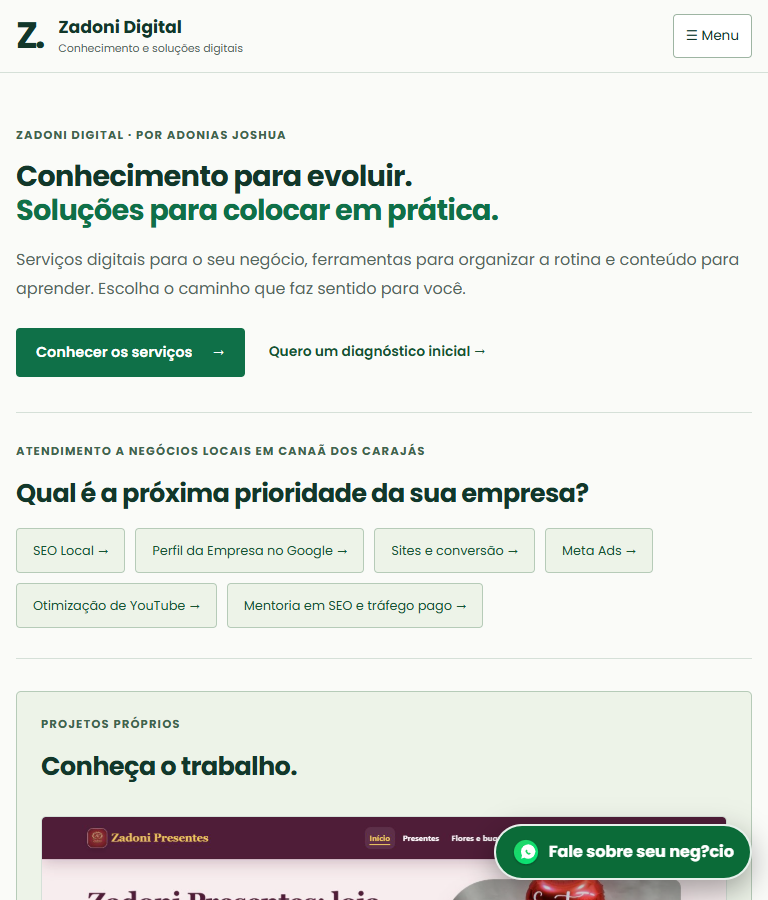
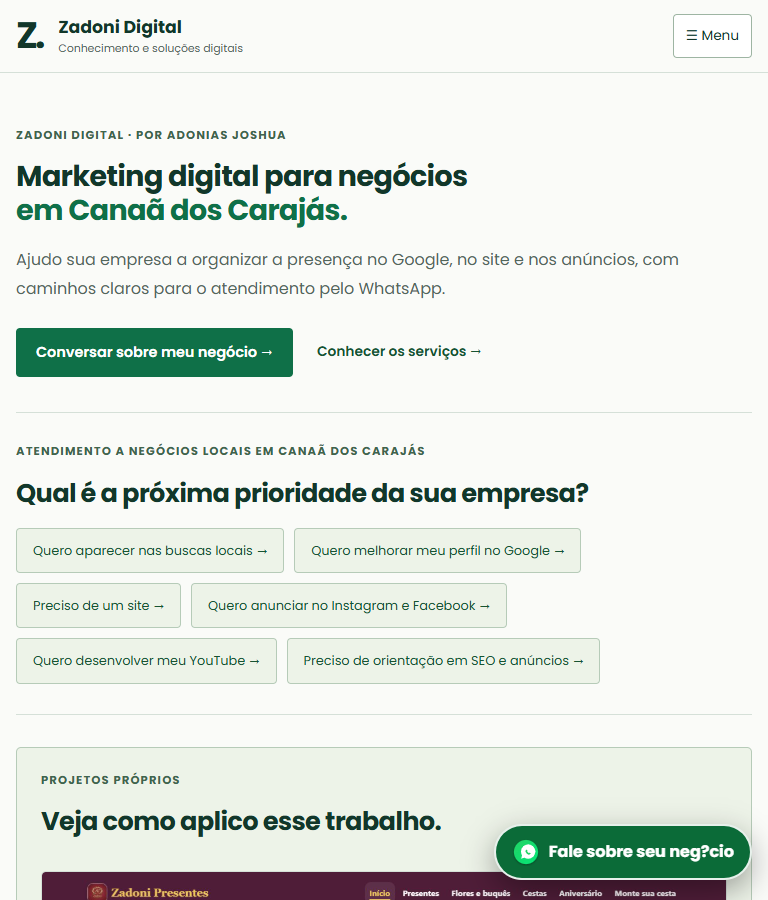
fix: apply local marketing copy and validate contact destination

diff --git a/index.html b/index.html
@@ -71,23 +71,23 @@
         <div class="container">
           <div class="home-intro">
             <p class="home-eyebrow">Zadoni Digital · Por Adonias Joshua</p>
-            <h2 id="home-discovery-title">Conhecimento para evoluir.<br><span>Soluções para colocar em prática.</span></h2>
-            <p class="home-lead">Serviços digitais para o seu negócio, ferramentas para organizar a rotina e conteúdo para aprender. Escolha o caminho que faz sentido para você.</p>
-            <div class="home-primary-actions"><a class="home-action" href="./servicos-digitais/">Conhecer os serviços <span aria-hidden="true">→</span></a><a class="home-text-link" href="./diagnostico-presenca-digital/">Quero um diagnóstico inicial →</a></div>
+            <h2 id="home-discovery-title">Marketing digital para negócios<br><span>em Canaã dos Carajás.</span></h2>
+            <p class="home-lead">Ajudo sua empresa a organizar a presença no Google, no site e nos anúncios, com caminhos claros para o atendimento pelo WhatsApp.</p>
+            <div class="home-primary-actions"><a class="home-action" href="https://wa.me/5594992993138?text=Ol%C3%A1%2C%20Adonias!%20Vim%20da%20Zadoni%20Digital%20e%20quero%20conversar%20sobre%20marketing%20para%20meu%20neg%C3%B3cio." target="_blank" rel="noopener noreferrer">Conversar sobre meu negócio →</a><a class="home-text-link" href="./servicos-digitais/">Conhecer os serviços →</a></div>
           </div>
-          <section class="home-service-access" aria-labelledby="home-services-title"><div><p class="home-eyebrow">Atendimento a negócios locais em Canaã dos Carajás</p><h2 id="home-services-title">Qual é a próxima prioridade da sua empresa?</h2></div><div class="home-service-links"><a href="./seo-local-canaa-dos-carajas/">SEO Local →</a><a href="./otimizacao-google-meu-negocio-canaa/">Perfil da Empresa no Google →</a><a href="./servicos-digitais/#sites">Sites e conversão →</a><a href="./meta-ads-negocios-locais-canaa/">Meta Ads →</a><a href="./otimizacao-canal-youtube/">Otimização de YouTube →</a><a href="./mentoria-seo-trafego-pago/">Mentoria em SEO e tráfego pago →</a></div></section>
-            <section class="home-feature" id="home-cases" aria-labelledby="home-cases-title"><p class="home-eyebrow">Projetos próprios</p><h2 id="home-cases-title">Conheça o trabalho.</h2><a class="home-case-link" href="./cases/zadoni-presentes/"><img src="./assets/images/zadoni-presentes-site.jpg" width="1360" height="840" loading="lazy" decoding="async" alt="Site da Zadoni Presentes: loja, produtos e categorias"><span><strong>Zadoni Presentes</strong><small>Site e presença digital de um negócio local.</small></span><span aria-hidden="true">→</span></a><a href="./cases/zadoni-digital/"><span><strong>Portal Zadoni Digital</strong><small>Conteúdo, ferramentas web e SEO.</small></span><span aria-hidden="true">→</span></a></section>
-          <p class="home-commercial-help">N?o sabe por onde come?ar? <a class="home-text-link" href="./diagnostico-presenca-digital/">Fa?a o diagn?stico inicial ?</a></p>
+          <section class="home-service-access" aria-labelledby="home-services-title"><div><p class="home-eyebrow">Atendimento a negócios locais em Canaã dos Carajás</p><h2 id="home-services-title">Qual é a próxima prioridade da sua empresa?</h2></div><div class="home-service-links"><a href="./seo-local-canaa-dos-carajas/">Quero aparecer nas buscas locais →</a><a href="./otimizacao-google-meu-negocio-canaa/">Quero melhorar meu perfil no Google →</a><a href="./servicos-digitais/#sites">Preciso de um site →</a><a href="./meta-ads-negocios-locais-canaa/">Quero anunciar no Instagram e Facebook →</a><a href="./otimizacao-canal-youtube/">Quero desenvolver meu YouTube →</a><a href="./mentoria-seo-trafego-pago/">Preciso de orientação em SEO e anúncios →</a></div></section>
+            <section class="home-feature" id="home-cases" aria-labelledby="home-cases-title"><p class="home-eyebrow">Projetos próprios</p><h2 id="home-cases-title">Veja como aplico esse trabalho.</h2><a class="home-case-link" href="./cases/zadoni-presentes/"><img src="./assets/images/zadoni-presentes-site.jpg" width="1360" height="840" loading="lazy" decoding="async" alt="Site da Zadoni Presentes: loja, produtos e categorias"><span><strong>Zadoni Presentes</strong><small>Negócio próprio: site, produtos e presença digital local.</small></span><span aria-hidden="true">→</span></a><a href="./cases/zadoni-digital/"><span><strong>Portal Zadoni Digital</strong><small>Conteúdo, ferramentas web e SEO.</small></span><span aria-hidden="true">→</span></a></section>
+          <p class="home-commercial-help">Não sabe por onde começar? <a class="home-text-link" href="./diagnostico-presenca-digital/">Faça o diagnóstico inicial →</a></p>
           <section class="home-author" aria-labelledby="home-author-title">
             <img src="./assets/images/adonias-joshua-apresentacao.jpeg" width="1086" height="1448" loading="lazy" decoding="async" alt="Adonias Joshua em ambiente de trabalho, usando colete de segurança" />
             <div><p class="home-eyebrow">Quem está por trás dos projetos</p><h2 id="home-author-title">Adonias Joshua</h2><p>Experiência de campo e desenvolvimento digital conectados em projetos próprios, ferramentas e conteúdo. Sou o criador da Zadoni Digital e responsável pelos trabalhos apresentados neste portal.</p><p>Minha trajetória em mineração, construção e meio ambiente faz parte da base dos conteúdos de produtividade, 5S e gestão ambiental.</p><div class="home-primary-actions"><a class="home-text-link" href="./sobre/">Conheça minha trajetória →</a><a class="home-text-link" href="./servicos-digitais/#contato">Conversar sobre seu projeto →</a></div></div>
           </section>
-          <section class="home-knowledge" aria-labelledby="home-knowledge-title"><p class="home-eyebrow">Conhecimento para aplicar</p><h2 id="home-knowledge-title">Aprenda, organize sua rotina e desenvolva suas habilidades.</h2><p>Explore os guias de produtividade, 5S, minera??o e meio ambiente, use as ferramentas e conhe?a a Trilha 10X.</p>          <nav class="home-paths" aria-label="Escolha o que procura">
+          <section class="home-knowledge" aria-labelledby="home-knowledge-title"><p class="home-eyebrow">Conhecimento para aplicar</p><h2 id="home-knowledge-title">Aprenda, organize sua rotina e desenvolva suas habilidades.</h2><p>Explore os guias de produtividade, 5S, mineração e meio ambiente, use as ferramentas e conheça a Trilha 10X.</p>          <nav class="home-paths" aria-label="Escolha o que procura">
             <a class="home-path" href="./servicos-digitais/"><span class="home-path-label">Para o seu negócio</span><h3>Serviços digitais</h3><p>SEO Local, Google, sites, anúncios, YouTube e mentoria.</p><span class="home-path-link">Encontrar o serviço certo →</span></a>
             <a class="home-path" href="./ferramentas/"><span class="home-path-label">Para a sua rotina</span><h3>Ferramentas gratuitas</h3><p>Tempo 10X e Matriz de Eisenhower para organizar atividades.</p><span class="home-path-link">Explorar as ferramentas →</span></a>
             <a class="home-path" href="./portal/"><span class="home-path-label">Para aprender</span><h3>Portal de conteúdos</h3><p>Produtividade, mineração, 5S e gestão ambiental.</p><span class="home-path-link">Escolher um tema →</span></a>
             <a class="home-path" href="#hero"><span class="home-path-label">Para se desenvolver</span><h3>Trilha Produtividade 10X</h3><p>Conheça o curso, as aulas e a proposta de formação.</p><span class="home-path-link">Conhecer a Trilha 10X ↓</span></a>
-          </nav><div class="home-service-links"><a href="./produtividade/">Produtividade</a><a href="./5s/">5S</a><a href="./mineracao/">Minera??o</a><a href="./gestao-ambiental/">Meio ambiente</a><a href="./marketing-local/melhorar-presenca-google-maps/">Marketing local</a></div></section>
+          </nav><div class="home-service-links"><a href="./produtividade/">Produtividade</a><a href="./5s/">5S</a><a href="./mineracao/">Mineração</a><a href="./gestao-ambiental/">Meio ambiente</a><a href="./marketing-local/melhorar-presenca-google-maps/">Marketing local</a></div></section>
           <div class="home-explore-grid">
             <section class="home-feature" aria-labelledby="home-tools-title"><p class="home-eyebrow">Da leitura à prática</p><h2 id="home-tools-title">Abra uma ferramenta.</h2><a class="home-case-link" href="./ferramentas/gestao-do-tempo/"><img src="./assets/images/tempo10x-interface.jpg" width="1360" height="840" loading="lazy" decoding="async" alt="Tempo 10X: formulario de nova atividade vazio"><span><strong>Tempo 10X</strong><small>Acompanhe tempo e atividades.</small></span><span aria-hidden="true">→</span></a><a class="home-case-link" href="./ferramentas/matriz-eisenhower/"><img src="./assets/images/matriz-eisenhower-interface.jpg" width="1360" height="840" loading="lazy" decoding="async" alt="Matriz de Eisenhower com quatro quadrantes e nenhuma tarefa cadastrada"><span><strong>Matriz de Eisenhower</strong><small>Organize tarefas por prioridade.</small></span><span aria-hidden="true">→</span></a></section>
           </div>
@@ -468,7 +468,7 @@
           <div class="footer-col">
             <h4 class="footer-title">Entre em Contato</h4>
             <p class="footer-contact">✉ <a href="mailto:adonias.joshua@gmail.com" class="footer-link">adonias.joshua@gmail.com</a></p>
-            <a class="footer-whats" href="https://wa.me/5594992993138?text=Ol%3F%2C%20Adonias!%20Vim%20da%20Zadoni%20Digital%20e%20quero%20conversar%20sobre%20marketing%20para%20meu%20neg%3Fcio." target="_blank" rel="noopener" aria-label="Falar no WhatsApp">Falar no WhatsApp</a>
+            <a class="footer-whats" href="https://wa.me/5594992993138?text=Ol%C3%A1%2C%20Adonias!%20Vim%20da%20Zadoni%20Digital%20e%20quero%20conversar%20sobre%20marketing%20para%20meu%20neg%C3%B3cio." target="_blank" rel="noopener" aria-label="Falar no WhatsApp">Falar no WhatsApp</a>
           </div>
 
           <!-- Coluna 4 - Redes Sociais -->
@@ -484,7 +484,7 @@
               <a class="social-icon instagram" href="https://www.instagram.com/zadoni_criacoes?igsh=MWlxeXd5ZWFvYmxvNg==" target="_blank" rel="noopener" aria-label="Instagram">
                 <img src="./assets/icons/instagram.svg" alt="Instagram" width="20" height="20" />
               </a>
-              <a class="social-icon whatsapp" href="https://wa.me/5594992993138?text=Ol%3F%2C%20Adonias!%20Vim%20da%20Zadoni%20Digital%20e%20quero%20conversar%20sobre%20marketing%20para%20meu%20neg%3Fcio." target="_blank" rel="noopener" aria-label="WhatsApp">
+              <a class="social-icon whatsapp" href="https://wa.me/5594992993138?text=Ol%C3%A1%2C%20Adonias!%20Vim%20da%20Zadoni%20Digital%20e%20quero%20conversar%20sobre%20marketing%20para%20meu%20neg%C3%B3cio." target="_blank" rel="noopener" aria-label="WhatsApp">
                 <img src="./assets/icons/whatsapp.svg" alt="WhatsApp" width="20" height="20" />
               </a>
             </div>
@@ -500,7 +500,7 @@
     </footer>
 
     <!-- Floating WhatsApp chat button -->
-    <a class="whatsapp-float" href="https://wa.me/5594992993138?text=Ol%3F%2C%20Adonias!%20Vim%20da%20Zadoni%20Digital%20e%20quero%20conversar%20sobre%20marketing%20para%20meu%20neg%3Fcio." target="_blank" rel="noopener noreferrer" aria-label="Falar diretamente com Adonias pelo WhatsApp">
+    <a class="whatsapp-float" href="https://wa.me/5594992993138?text=Ol%C3%A1%2C%20Adonias!%20Vim%20da%20Zadoni%20Digital%20e%20quero%20conversar%20sobre%20marketing%20para%20meu%20neg%C3%B3cio." target="_blank" rel="noopener noreferrer" aria-label="Falar diretamente com Adonias pelo WhatsApp">
       <img src="./assets/icons/whatsapp.svg" alt="" aria-hidden="true" width="28" height="28" loading="lazy" />
       <span class="whatsapp-float__label">Fale sobre seu neg?cio</span>
     </a>
